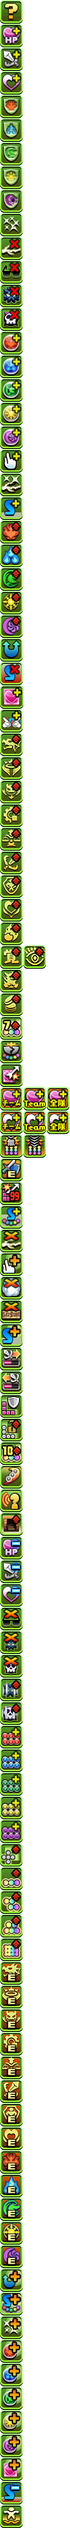
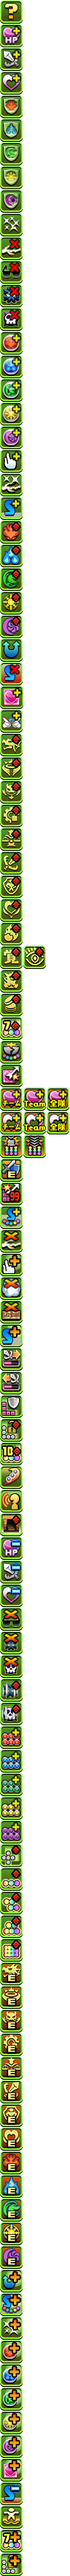
增加大7c、大L两个新觉醒

diff --git a/triple.html b/triple.html
@@ -1915,6 +1915,8 @@ var formation = new Formation(teamsCount,6);
 						<li class="awoken-count"><button class="awoken-icon" data-awoken-icon="104"></button><!--大心+--></li>
 						<li class="awoken-count"><button class="awoken-icon" data-awoken-icon="105"></button><!--S- --></li>
 						<li class="awoken-count"><button class="awoken-icon" data-awoken-icon="106" data-max-count="1"></button><!--浮游--></li>
+						<li class="awoken-count"><button class="awoken-icon" data-awoken-icon="107"></button><!--大7c--></li>
+						<li class="awoken-count"><button class="awoken-icon" data-awoken-icon="108"></button><!--大L解锁--></li>
 					</ul>
 				</div>
 				<details class="sawoken-detail"><!--超觉醒列表-->
@@ -2026,6 +2028,8 @@ var formation = new Formation(teamsCount,6);
 						<li class="awoken-count"><input type="checkbox" class="sawoken-check" name="types" value="104" id="search-awoken-104" /><label class="awoken-icon" data-awoken-icon="104" for="search-awoken-104"></label><!--大心+--></li>
 						<li class="awoken-count"><input type="checkbox" class="sawoken-check" name="types" value="105" id="search-awoken-105" /><label class="awoken-icon unallowable-awoken" data-awoken-icon="105" for="search-awoken-105"></label><!--S- --></li>
 						<li class="awoken-count"><input type="checkbox" class="sawoken-check" name="types" value="106" id="search-awoken-106" /><label class="awoken-icon" data-awoken-icon="106" for="search-awoken-106"></label><!--浮游--></li>
+						<li class="awoken-count"><input type="checkbox" class="sawoken-check" name="types" value="107" id="search-awoken-107" /><label class="awoken-icon" data-awoken-icon="107" for="search-awoken-107"></label><!--大7c--></li>
+						<li class="awoken-count"><input type="checkbox" class="sawoken-check" name="types" value="108" id="search-awoken-108" /><label class="awoken-icon" data-awoken-icon="108" for="search-awoken-108"></label><!--大L解锁--></li>
 					</ul>
 				</details>
 			</div>

diff --git a/multi.html b/multi.html
@@ -994,6 +994,8 @@ var formation = new Formation(teamsCount,5);
 						<li class="awoken-count"><button class="awoken-icon" data-awoken-icon="104"></button><!--大心+--></li>
 						<li class="awoken-count"><button class="awoken-icon" data-awoken-icon="105"></button><!--S- --></li>
 						<li class="awoken-count"><button class="awoken-icon" data-awoken-icon="106" data-max-count="1"></button><!--浮游--></li>
+						<li class="awoken-count"><button class="awoken-icon" data-awoken-icon="107"></button><!--大7c--></li>
+						<li class="awoken-count"><button class="awoken-icon" data-awoken-icon="108"></button><!--大L解锁--></li>
 					</ul>
 				</div>
 				<details class="sawoken-detail"><!--超觉醒列表-->
@@ -1105,6 +1107,8 @@ var formation = new Formation(teamsCount,5);
 						<li class="awoken-count"><input type="checkbox" class="sawoken-check" name="types" value="104" id="search-awoken-104" /><label class="awoken-icon" data-awoken-icon="104" for="search-awoken-104"></label><!--大心+--></li>
 						<li class="awoken-count"><input type="checkbox" class="sawoken-check" name="types" value="105" id="search-awoken-105" /><label class="awoken-icon unallowable-awoken" data-awoken-icon="105" for="search-awoken-105"></label><!--S- --></li>
 						<li class="awoken-count"><input type="checkbox" class="sawoken-check" name="types" value="106" id="search-awoken-106" /><label class="awoken-icon" data-awoken-icon="106" for="search-awoken-106"></label><!--浮游--></li>
+						<li class="awoken-count"><input type="checkbox" class="sawoken-check" name="types" value="107" id="search-awoken-107" /><label class="awoken-icon" data-awoken-icon="107" for="search-awoken-107"></label><!--大7c--></li>
+						<li class="awoken-count"><input type="checkbox" class="sawoken-check" name="types" value="108" id="search-awoken-108" /><label class="awoken-icon" data-awoken-icon="108" for="search-awoken-108"></label><!--大L解锁--></li>
 					</ul>
 				</details>
 			</div>

diff --git a/solo.html b/solo.html
@@ -829,6 +829,8 @@ var formation = new Formation(teamsCount,6);
 						<li class="awoken-count"><button class="awoken-icon" data-awoken-icon="104"></button><!--大心+--></li>
 						<li class="awoken-count"><button class="awoken-icon" data-awoken-icon="105"></button><!--S- --></li>
 						<li class="awoken-count"><button class="awoken-icon" data-awoken-icon="106" data-max-count="1"></button><!--浮游--></li>
+						<li class="awoken-count"><button class="awoken-icon" data-awoken-icon="107"></button><!--大7c--></li>
+						<li class="awoken-count"><button class="awoken-icon" data-awoken-icon="108"></button><!--大L解锁--></li>
 					</ul>
 				</div>
 				<details class="sawoken-detail"><!--超觉醒列表-->
@@ -940,6 +942,8 @@ var formation = new Formation(teamsCount,6);
 						<li class="awoken-count"><input type="checkbox" class="sawoken-check" name="types" value="104" id="search-awoken-104" /><label class="awoken-icon" data-awoken-icon="104" for="search-awoken-104"></label><!--大心+--></li>
 						<li class="awoken-count"><input type="checkbox" class="sawoken-check" name="types" value="105" id="search-awoken-105" /><label class="awoken-icon unallowable-awoken" data-awoken-icon="105" for="search-awoken-105"></label><!--S- --></li>
 						<li class="awoken-count"><input type="checkbox" class="sawoken-check" name="types" value="106" id="search-awoken-106" /><label class="awoken-icon" data-awoken-icon="106" for="search-awoken-106"></label><!--浮游--></li>
+						<li class="awoken-count"><input type="checkbox" class="sawoken-check" name="types" value="107" id="search-awoken-107" /><label class="awoken-icon" data-awoken-icon="107" for="search-awoken-107"></label><!--大7c--></li>
+						<li class="awoken-count"><input type="checkbox" class="sawoken-check" name="types" value="108" id="search-awoken-108" /><label class="awoken-icon" data-awoken-icon="108" for="search-awoken-108"></label><!--大L解锁--></li>
 					</ul>
 				</details>
 			</div>

diff --git a/service-worker.js b/service-worker.js
@@ -11891,7 +11891,7 @@ const cachesMap = new Map([
 	],
 	[
 		"multi.html",
-		"53304233f441fedd1a2dc338d11b0149"
+		"accfd4ac5667061fe78b6090ffa06355"
 	],
 	[
 		"script-custom_elements.js",
@@ -11899,7 +11899,7 @@ const cachesMap = new Map([
 	],
 	[
 		"script-json_data.js",
-		"850815b1b0ccc9901125d6778a71b8a3"
+		"f5830f20bf75d2cc60e6475cc0924020"
 	],
 	[
 		"script-skill-parser.js",
@@ -11915,11 +11915,11 @@ const cachesMap = new Map([
 	],
 	[
 		"solo.html",
-		"c489838a4ac278f9221a50385723bf90"
+		"0540923b170278b4cf62a47c4fee6108"
 	],
 	[
 		"style-monsterimages.css",
-		"b1a1b6c43554aa9cf627ec3fe3005a01"
+		"06915149ba0d15c57c000fe2609dffd6"
 	],
 	[
 		"style.css",
@@ -11931,7 +11931,7 @@ const cachesMap = new Map([
 	],
 	[
 		"triple.html",
-		"1d1824e55919f65e97bb42f5fa90a09b"
+		"27702b3236b09687376c9e34476228a7"
 	],
 	[
 		"languages/en.css",
@@ -11975,7 +11975,7 @@ const cachesMap = new Map([
 	],
 	[
 		"languages/zh-TW.js",
-		"805b29c5db5ceed3738b5c932779478d"
+		"1423e46eccbd05613a0a8dc4ffff581b"
 	],
 	[
 		"languages/zh.css",
@@ -11983,7 +11983,7 @@ const cachesMap = new Map([
 	],
 	[
 		"languages/zh.js",
-		"0eb078923fc8ce131827f2d9104bc867"
+		"8aff62c8a5ebe7d6540217adde60b8c7"
 	],
 	[
 		"images/attrs.png",
@@ -11999,7 +11999,7 @@ const cachesMap = new Map([
 	],
 	[
 		"images/awoken.png",
-		"0d2d9a334fb12f7e6a03b715cbb219b4"
+		"dae80c14df21a81fa11a8e59a6f83f37"
 	],
 	[
 		"images/badge-bg.png",

diff --git a/script-json_data.js b/script-json_data.js
@@ -420,6 +420,8 @@ let localTranslating = {
 			[104]: tp`${'icon'}Enhanced Heal Orbs+`,
 			[105]: tp`${'icon'}Skill Boost Minus`,
 			[106]: tp`${'icon'}Floating`,
+			[107]: tp`${'icon'}Enhanced Combos+`,
+			[108]: tp`${'icon'}L Increased Attack+`,
 		}
 	},
 };
@@ -482,6 +484,8 @@ const equivalent_awoken = [
 	{small:17,big:102,times:2},//光+
 	{small:18,big:103,times:2},//暗+
 	{small:29,big:104,times:2},//心+
+	{small:43,big:107,times:2},//7c
+	{small:60,big:108,times:2},//L
 ];
 //官方的觉醒排列顺序
 const official_awoken_sorting = [
@@ -496,7 +500,7 @@ const official_awoken_sorting = [
 	65, 66, 67, 20, 71, 72, 30, 64, 63,
 	73, 74, 75, 76, 77, 78, 79, 80, 81,
 	82, 84, 83, 85, 86, 87, 88, 89, 90,
-	91, 92, 93, 94, 95,105,106,
+	91, 92, 93, 94, 95,105,106,107,108,
 ];
 
 //pdc的徽章对应数字

diff --git a/style-monsterimages.css b/style-monsterimages.css
@@ -999,6 +999,12 @@
 .awoken-icon[data-awoken-icon='106']{/*浮游*/
 	background-position-y:calc(-32px * 106);
 }
+.awoken-icon[data-awoken-icon='107']{/*大7c*/
+	background-position-y:calc(-32px * 107);
+}
+.awoken-icon[data-awoken-icon='108']{/*大L解锁*/
+	background-position-y:calc(-32px * 108);
+}
 :lang(zh) .awoken-icon:where(
 	[data-awoken-icon='46'],
 	[data-awoken-icon='47'],

diff --git a/languages/zh-TW.js b/languages/zh-TW.js
@@ -403,6 +403,8 @@
 			[104]: tp`${'icon'}大心+`,
 			[105]: tp`${'icon'}S-`,
 			[106]: tp`${'icon'}浮游`,
+			[107]: tp`${'icon'}大7c`,
+			[108]: tp`${'icon'}大L解鎖`,
 		}
 	},
 };

diff --git a/languages/zh.js b/languages/zh.js
@@ -405,6 +405,8 @@
 			[104]: tp`${'icon'}大心+`,
 			[105]: tp`${'icon'}S-`,
 			[106]: tp`${'icon'}浮游`,
+			[107]: tp`${'icon'}大7c`,
+			[108]: tp`${'icon'}大L解锁`,
 		}
 	},
 };
